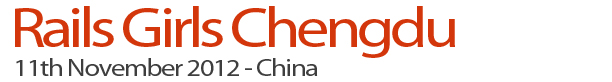
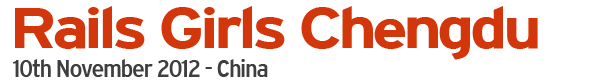
commited by Courtneychow88 for Event Date bug

Changed region(s): [[0.0, 0.0732, 0.9003, 0.7317], [0.0, 0.7073, 0.5278, 0.9512]]

diff --git a/chengdu.html b/chengdu.html
@@ -3,7 +3,7 @@
 <head>
 <meta charset="utf-8">
  
-  <title>Chengdu, 11th November, 2012 </title>
+  <title>Chengdu, 10th November, 2012 </title>
   
 <!--  Write a metatext. This is what will show on the Facebook page and for instance search engines. -->
 
@@ -68,12 +68,15 @@ Steps to show on site
     <div id="container" class="container_12 page clearfix">
       <div class="grid_12 omega alpha">
         <div id="promo" class="chengdu">
-        <h1>Rails Girls Chendu November 11th, 2012</h1>
-        <p> Hello world!</p><p>
+        <h1>Rails Girls Chendu November 10th, 2012</h1>
+        <p>
+          Hello world!
+        </p>
+        <p>
           Rails Girls comes to Chengdu! During the free one-day workshop we'll dive into the magical world of Ruby on Rails. </p>
         <p>
-          Apply now! <a href="http://railsgirls.wufoo.com/forms/z7x0w7/">Applications</a> are open until the 5th of November.<br>
-          We'll let you know on November 11th whether you've been chosen.
+          Apply now! <a href="https://railsgirls.wufoo.com/forms/q7p3z7">Applications</a> are open until the 1th of November.<br>
+          We'll let you know on November 5th whether you've been chosen.
         </p>
 
 
@@ -114,8 +117,9 @@ Steps to show on site
       <hr />
   
 <!--  Update the texts! -->
-      
-         <h2>Saturday 11th November</h2>
+      <div class="grid_6 alpha">
+
+         <h2>Saturday 10th November</h2>
         
         <table id="schedule">
           <tbody>
@@ -142,7 +146,8 @@ Steps to show on site
           <tr>
             <th>10:15 - 11：00</th>
             <td>
-               <h4>Learn some basic knowledge of Rails on Ruby -workshop</h4>
+               <h4> Workshop</h4>
+               Learn some basic knowledge of Rails on Ruby
             </td>
           </tr>
           
@@ -165,7 +170,7 @@ Steps to show on site
 
           <tr>
             <th>15:00 - 15:30</th>
-            <td><h4>Show Case: Wave 1!</h4></td>
+            <td><h4>Show Case: Wave 1st!</h4></td>
           </tr>
 
           <tr>
@@ -178,7 +183,8 @@ Steps to show on site
           <tr>
             <th>17:00 - 17:30</th>
             <td>
-              <h4>Lighting talks from attendees</h4>
+              <h4>Show Case:Wave 2nd!</h4>
+            Lighting talks from attendees
             </td>
           </tr>
 
@@ -189,14 +195,7 @@ Steps to show on site
               Recap of what we’ve learned and how it all fits together.
             </td>
           </tr>
-          <tr>
-            <th>18:00 -</th>
-            <td>
-              <h4>Afterparty</h4>
-              Open for everyone, meet cool people interested in tech. <br>
-            
-            </td>
-          </tr>
+
           </tbody>
         </table>
         
@@ -209,7 +208,7 @@ Steps to show on site
         
         <h3>Information</h3>
             <p>
-              <p><strong><a href="http://railsgirls.wufoo.com/forms/apply-to-rails-girls-cologne-2828-september/">Applications</a> close:</strong> November 1th<br/>
+              <p><strong><a href="https://railsgirls.wufoo.com/forms/q7p3z7/">Applications</a> close:</strong> November 1th<br/>
                 <strong>Acceptances informed:</strong>November 5th</p>
               <strong>Location:</strong> 7th floor, Building E1 , No.1268 Tianfu Road, High-tech District, Chengdu, China. 
             
@@ -225,24 +224,24 @@ Steps to show on site
        <p>Rails Girls Chngduis co-organized with our awesome partners.</p><p>
          <p>Want to help? We're looking for partners & sponsors for the non-profit event! <a href="mailto:contact@railslove.com>">Email us</a>! </p>
          <p>
-           <a href="http://www.thoughtworks.com" target"_blank" style="float:right; margin:0 0 0; border:0;"><img src="./images/thougtworks-logo.png" alt="ThoughtWorks"></a>
+           <a href="http://www.thoughtworks.com" target"_blank" style="float:right; margin:0 0 0; border:0;"><img src="./images/thoughtworks-logo.png" alt="ThoughtWorks"></a>
          <a href="http://www.thoughtworks.com">ThoughtWorks</a> is a global IT consultancy. We deliver custom applications and provide no-nonsense consulting; we help organizations become agile.
          </p>
      <hr/>
      <h3>FAQ</h3>
-      <p><strong>How much does the workshop cost?</strong>
+      <p><strong>How much does the workshop cost?</strong><br>
           Nothing, it's free! You just need to be excited!
       </p>
-       <p>
-         <strong>Who is this aimed for?</strong>
+      <p>
+         <strong>Who is this aimed for?</strong><br>
          Women of any age with basic knowledge of working with a computer. We’ve had people of all ages taking part. Most of the speeches are given in english, but small group work is done in german. Please bring your laptop.
        </p>
        <p>
-         <strong>Can men attend?</strong>
+         <strong>Can men attend?</strong><br>
          Yes, but you need to be accompanied by an interested lady. Also, girls are given a priority. 
        </p>
        <p>
-         <strong>I know how to program - How can I help?</strong>
+         <strong>I know how to program - How can I help?</strong><br>
          We’re also looking for people to be coaches. We’ll have a two-three hour workshop before the event to walk you through the curriculum. <a href="mailto:liane@railslove.com>">Email us</a>
        </p>
       
@@ -263,11 +262,7 @@ Jeff Xiong, Organizer&Coach
       <a href="http://weibo.com/u/1836861825" class="grid_3">
 Xiaoshen Wang, Organizer
 <small>@Xiaoshen Wang</small>
-</a>
-      <a href="http://weibo.com/u/1836861825" class="grid_3">
-Xiaoshen Wang, Organizer
-<small>@Xiaoshen Wang</small>
-</a>
+
         <a href="http://www.tuzei8.com" class="grid_3">
 Zichuan Xiong, UX Coach
 <small>@Zichuan Xiong</small>
@@ -276,10 +271,7 @@ Zichuan Xiong, UX Coach
 Ye Zhen, Coach
 <small>@Ye Zhen</small>
 </a>
-       <a href="http://dreamhead.blogbus.com" class="grid_3">
-Ye Zhen, Coach
-<small>@Ye Zhen</small>
-</a>
+
       <a href="http://courtneychow.blogbus.com" class="grid_3">
 Yi Zhou, Organizer
 <small>@Yi Zhou</small>

diff --git a/events.html b/events.html
@@ -41,7 +41,7 @@
       <h1>Upcoming Events</h1>
 
       <a href="./chengdu.html" class="omega event grid_4" style="background:url(images/rg-chengdu.png) 0px -40px no-repeat;">
-        <h3>Chengdu, China <small>11 November 2012</small></h3>
+        <h3>Chengdu, China <small>10 November 2012</small></h3>
       </a>
 
       <a href="./munich.html" class="omega event grid_4" style="background:url(images/rg-munich.png) 0px -40px no-repeat;">

diff --git a/index.html b/index.html
@@ -78,7 +78,7 @@
 
               <a href="./chengdu.html" class="upcoming">
                 <img src="./images/railsgirls-sq.png" width="50">
-                <h3>Chengdu, China<br/><span> 11 November 2012</span></h3>
+                <h3>Chengdu, China<br/><span> 10 November 2012</span></h3>
               </a>
 
               <a href="./munich.html" class="upcoming">
